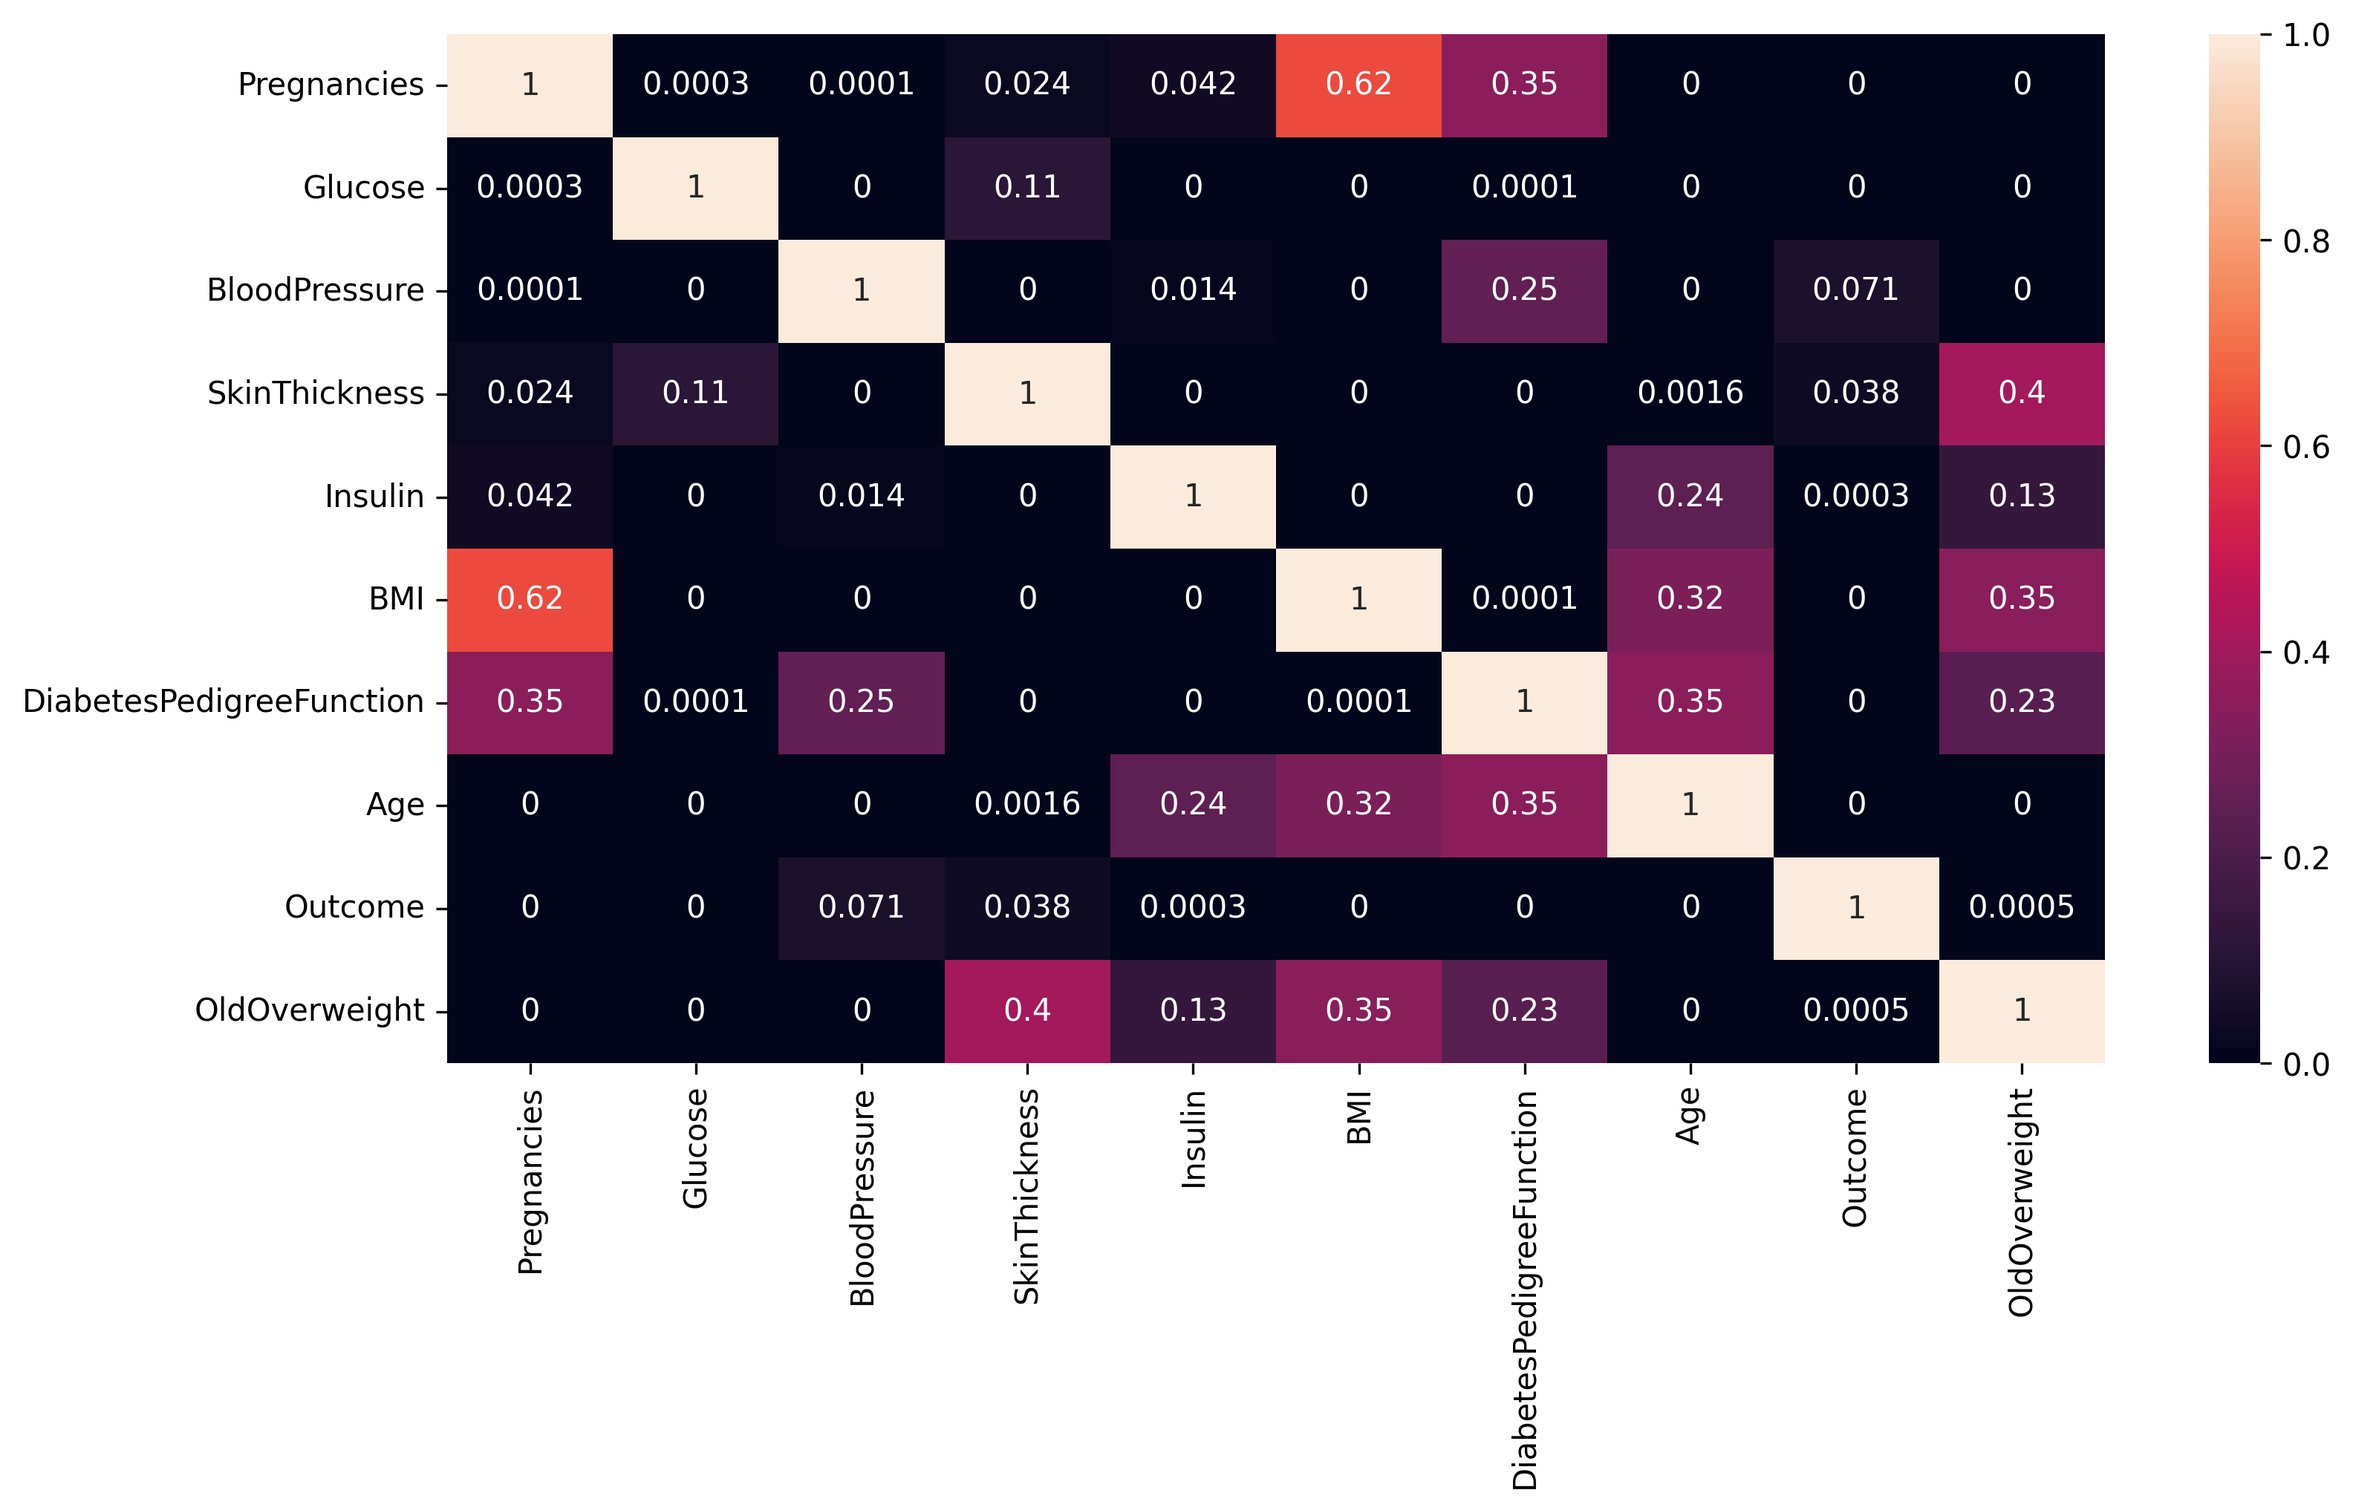
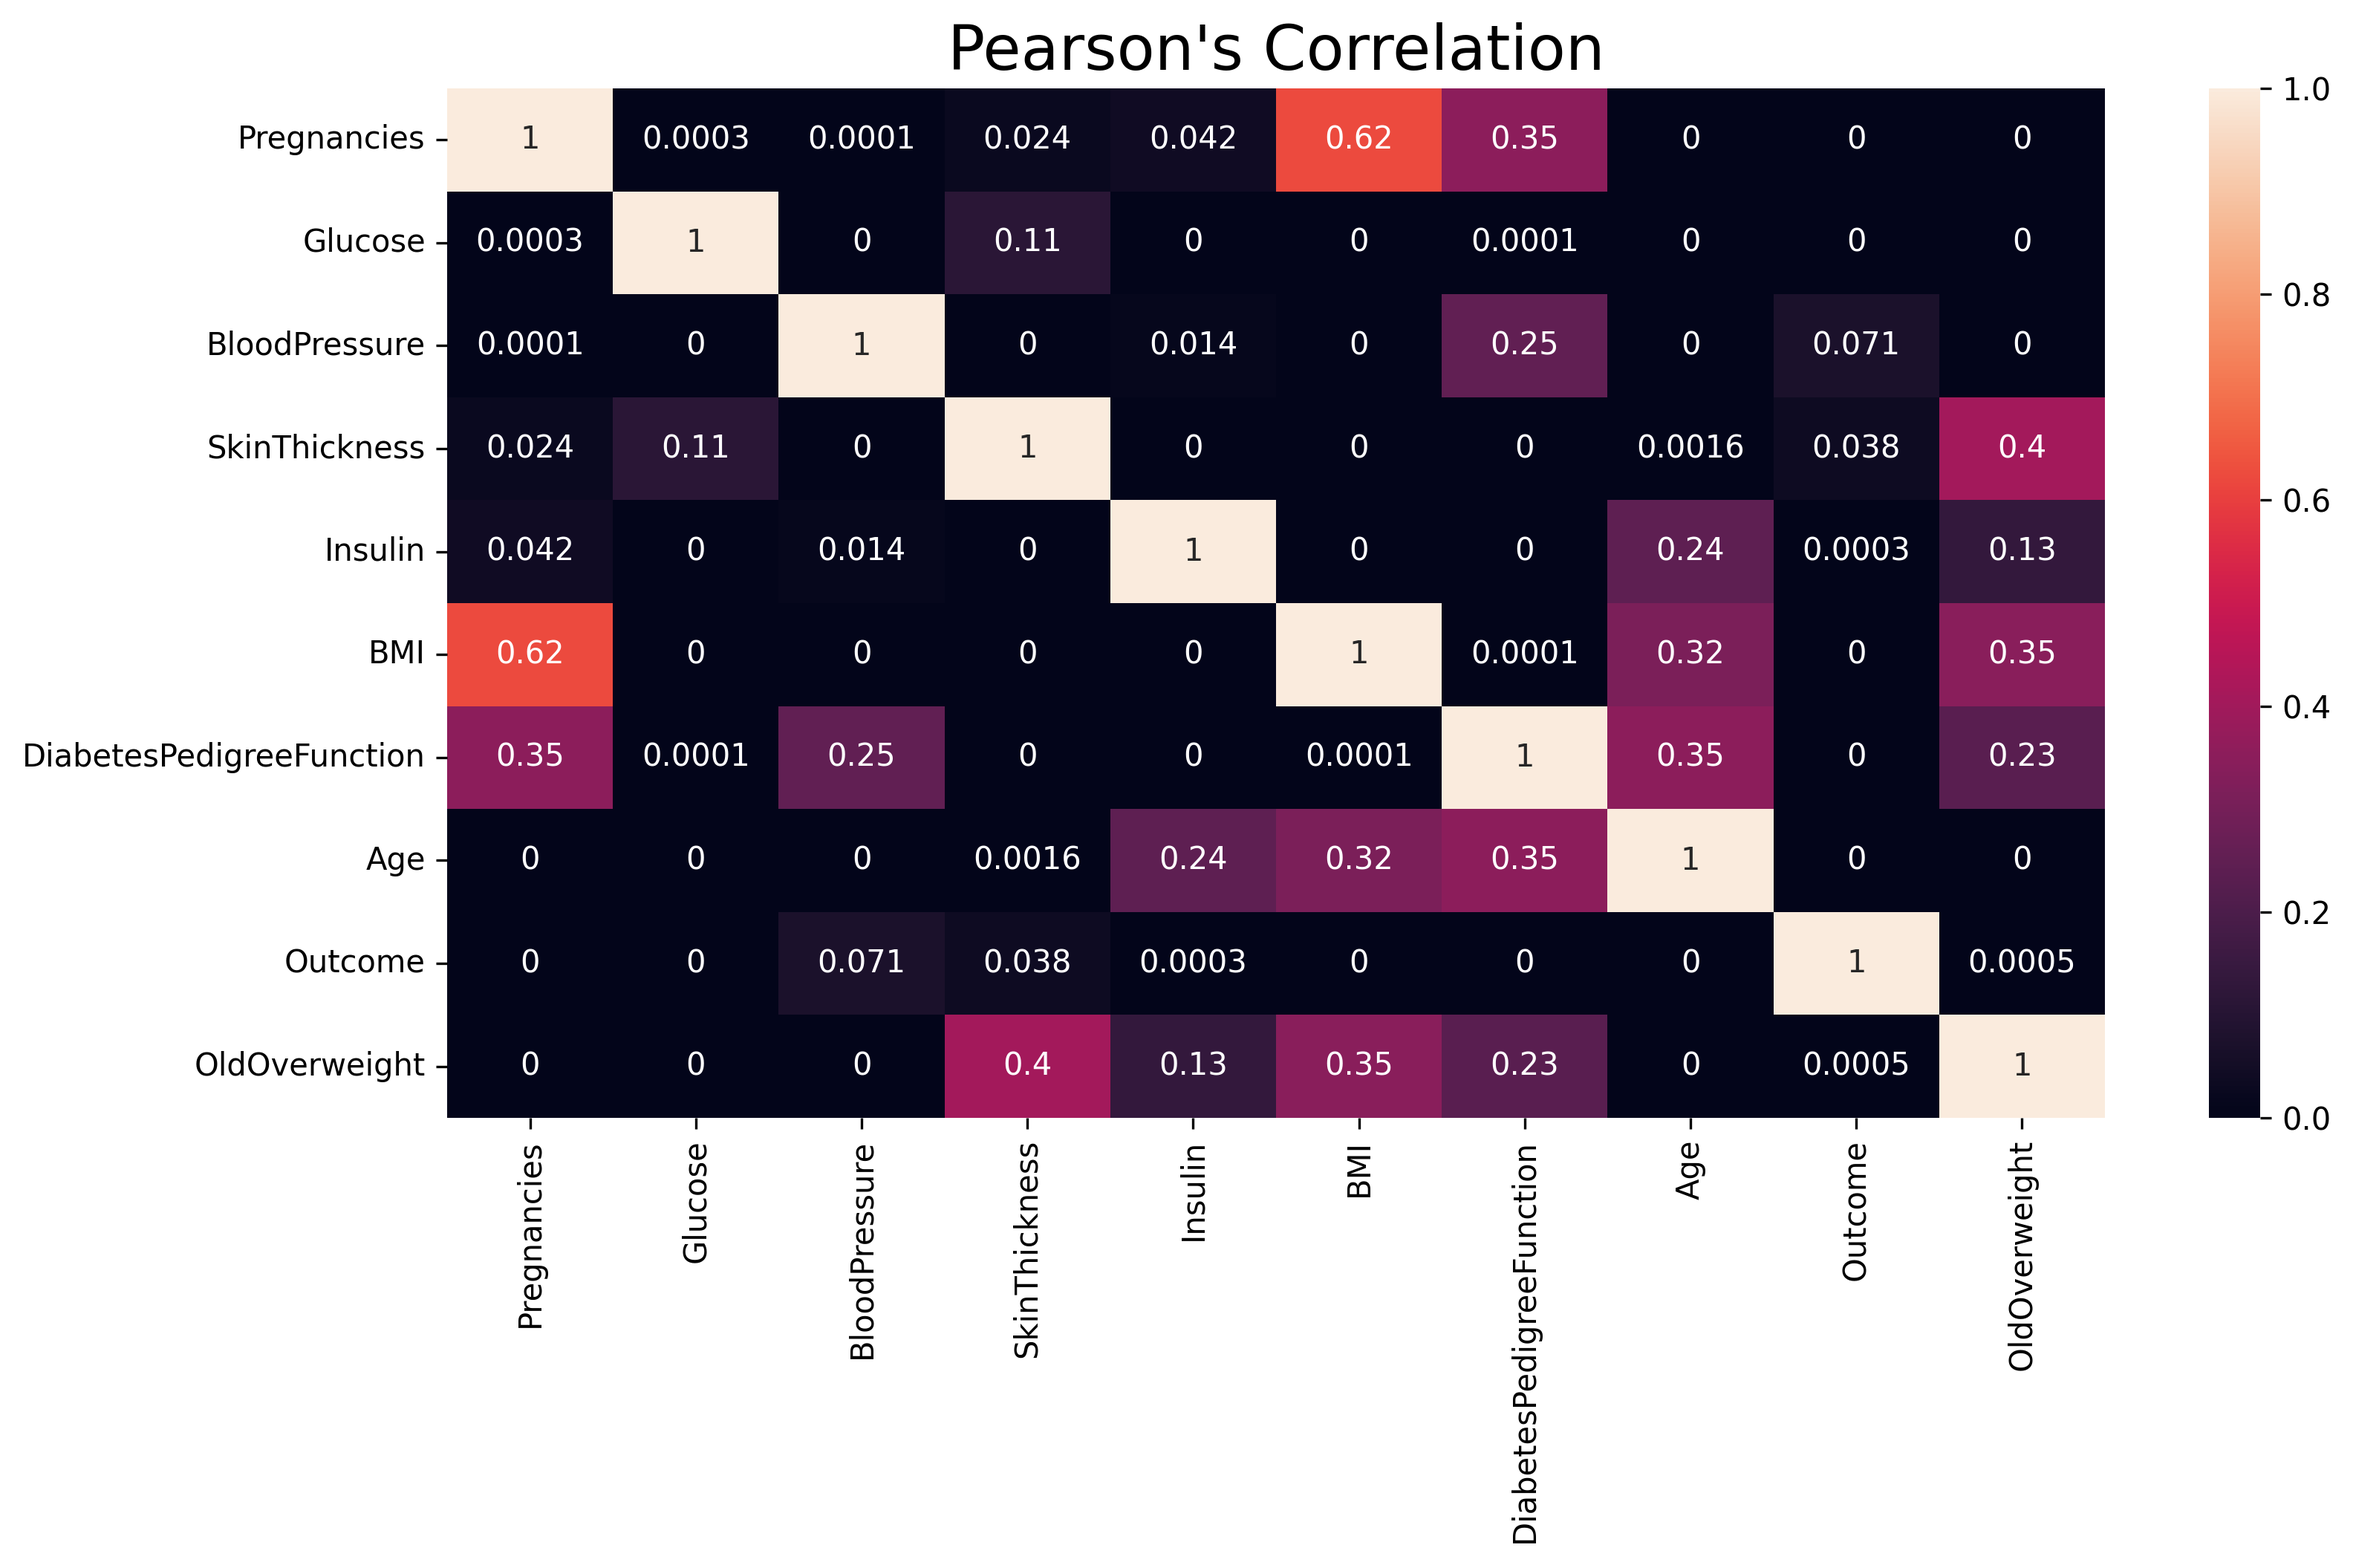
Coded the bold text model

diff --git a/src/main.py b/src/main.py
@@ -1,4 +1,7 @@
+from math import sin
+import cv2
 import utils
+import model
 import pandas as pd
 import significance
 
@@ -10,9 +13,37 @@ def distribution_test(df):
         curr_values = df.loc[:, col]
         significance.gaussian_test(col, curr_values)
 
+
 def correlation_test(df):
     pearson, spearman = significance.correlation_test(df)
 
-    utils.save_correlation_map(pearson, 'heatmap_pearson.png', title="Pearson's Correlation")
-    utils.save_correlation_map(spearman, 'heatmap_spearman.png', title="Spearman's Correlation")
+    utils.save_correlation_map(pearson, 'article/images/heatmap_pearson.png', title="Pearson's Correlation")
+    utils.save_correlation_map(spearman, 'article/images/heatmap_spearman.png', title="Spearman's Correlation")
 
+
+def pregnancy_prediction(df):
+    x_features = ['Glucose', 'BloodPressure', 'SkinThickness', 'Insulin', 'BMI', 'DiabetesPedigreeFunction', 'Age', 'Outcome', 'OldOverweight']
+    y_feature = 'Pregnancies'
+    
+    model.linear_regression_model(df, x_features, y_feature)
+
+    x_features = ['Age', 'Outcome', 'OldOverweight']
+    model.linear_regression_model(df, x_features, y_feature)
+
+
+def bold_text():
+    img1 = cv2.imread('data/logo.png')
+    img2 = cv2.imread('data/heading.png')
+    img3 = cv2.imread('data/body.png')
+
+    bold1 = model.compute_thickness(img1)
+    bold2 = model.compute_thickness(img2)
+    bold3 = model.compute_thickness(img3)
+
+    print(bold1, bold2, bold3)
+
+    significance.boldness_test(bold1, bold2, bold3)
+    
+
+if __name__ == '__main__':
+    bold_text()

diff --git a/src/model.py b/src/model.py
@@ -1,0 +1,39 @@
+import cv2
+import numpy as np
+from sklearn.metrics import r2_score
+from sklearn.model_selection import train_test_split
+from sklearn.linear_model import LinearRegression, LogisticRegression
+
+def data_split(df, x_features, y_feature):
+    X_train = df.loc[:, x_features]
+    y_train = df.loc[:, y_feature]
+
+    return train_test_split(X_train, y_train, test_size=0.2, random_state=42)
+
+def linear_regression_model(df, x_features, y_feature):
+    X_train, X_test, y_train, y_test = data_split(df, x_features, y_feature)
+
+    model = LinearRegression()
+    model.fit(X_train, y_train)
+    pred = model.predict(X_test)
+    r2 = r2_score(y_test, pred)
+
+    print(f'Linear Regression R^2: {r2}')
+
+
+def logistic_regression_model(df, x_features, y_feature):
+    X_train, X_test, y_train, y_test = data_split(df, x_features, y_feature)
+
+    model = LinearRegression()
+    model.fit(X_train, y_train)
+    accuracy = model.score(X_test, y_test)
+
+    print(f'Logistic Regression Accuracy: {accuracy}')
+
+
+def compute_thickness(img):
+    img = cv2.cvtColor(img, cv2.COLOR_BGR2GRAY)
+    inverted = cv2.bitwise_not(img)
+    thinned = cv2.ximgproc.thinning(img)
+
+    return (np.sum(inverted == 255) - np.sum(thinned == 255)) / np.sum(thinned == 255)

diff --git a/src/significance.py b/src/significance.py
@@ -1,6 +1,6 @@
 import numpy as np
-import pandas as pd
 from scipy import stats
+from scipy.stats import levene, f_oneway
 
 def gaussian_test(col, values):
     stat1, p1 = stats.shapiro(values)
@@ -17,3 +17,16 @@ def correlation_test(df):
     spearman = spearman.round(4)
 
     return pearson, spearman
+
+def boldness_test(bold1, bold2, bold3):
+    rng = np.random.RandomState(42)
+    a_ton_of_text_boldness = rng.uniform(low=0.7, high=2.5, size=200)
+
+    variance_check = [[bold1, bold2], [bold2, bold3]]
+
+    for check in variance_check:
+        stat1, p1 = levene(a_ton_of_text_boldness, check, center='mean')
+        stat2, p2 = f_oneway(a_ton_of_text_boldness, check)
+
+        print(f'{p1:5f}')
+        print(f'{p2:5f}')

diff --git a/src/utils.py b/src/utils.py
@@ -3,6 +3,7 @@ import matplotlib.pyplot as plt
 
 def save_correlation_map(correlation_map, save_name, title):
     plt.figure(figsize=(12, 6))
-    ax = sns.heatmap(correlation_map, annot=True)
-    plt.title(title, fontsize=18)
+    sns.heatmap(correlation_map, annot=True)
+    plt.title(title, fontsize=20)
     plt.savefig(save_name, dpi=300, bbox_inches='tight')
+

diff --git a/article/article.md b/article/article.md
@@ -68,7 +68,7 @@ Gaussian: SkinThickness
 This means all the data pass the requirements of being normally distributed since no feature had a p-value above the significance level at 0.05. Furthermore, this means we can use *parametric tests* like T tests and Pearson's Correlation Coefficient. This does not mean we cannot use non-parametric tests - these tests are distribution-free. See [this page](https://www.ibm.com/docs/en/db2woc?topic=procedures-statistics-parametric-nonparametric) for more information about parametric and non-parametric tests.
 
 ### Checking for redundancy
-The amount of signal power in your dataset can sometimes be hard to comprehend. You can check which features are redundant by applying correlation tests. 
+The amount of correlation in your dataset can sometimes be hard to comprehend. You can check which features are redundant by applying correlation tests.
 
 **Pearson's test**: We are testing whether two features have a linear relationship - meaning that if feature X increases or decreases by a value Z, then Y increases or decreases just as much as X. 
 
@@ -90,30 +90,49 @@ def correlation_test(df):
 After we have calculated the correlations, we are left with a correlation map for each test. We use the Seaborn Python package to visualize them as a heatmap:
 
 ```python
-def save_correlation_map(correlation_map, save_name):
+def save_correlation_map(correlation_map, save_name, title):
     plt.figure(figsize=(12, 6))
     sns.heatmap(correlation_map, annot=True)
+    plt.title(title, fontsize=20)
     plt.savefig(save_name, dpi=300, bbox_inches='tight')
 ```
 
-As a result we get two heatmaps, one for Pearson's test and one for Spearman's test:
+As a result we get two heatmaps, one for Pearson's test and one for Spearman's test.
+
+Inspecting the Pearson's correlation plot of p-values, we can quite clearly see tath BMI is correlating with Pregnanies and DiabetesPedigreeFunction. Basically, we are looking for anything above 0.05; any feature that has a p-value for correlation with another feature above 0.05 is found to be insignificantly different from the other feature.
 
 ![](images/heatmap_pearson.png)
+Pearson's correlation coefficient on the diabetes dataset.
+
+Inspecting Spearman's correlation, much of the same story is told, except for a few new features that are tremendously correlated with other features. Insulin and the constructed feature OldOverweight has an incredibly high p-value while the BMI and Pregnancies features increased to a p-value of 1. BloodPressure and Insulin also has a very large p-value.
 
 ![](images/heatmap_spearman.png)
+Spearman's correlation coefficient on the diabetes dataset.
 
-#### Linear Regression Example
-Comparing coefficients
+On a final note on correlation; making intuitive sense of a dataset is not always as easy as with our dataset for this article. We can quite clearly see that BMI and Pregnancies follow eachother linearly and monotonically - as expected. However, if you are working with sensor data where you cannot put your intuition on top quickly, then this becomes a tool to help you understand the sensor data faster.
 
 ### Finding a cutoff point
 Perhaps this is what I have found most useful in my work. It is almost like a statistical way of finding outliers that does not require you to train a model. Using clustering algorithms can also help, but they add additional complexity which we do not need.
 
 Levene's test vs ANOVA
 
-ANOVA F statistic equation:
+![](images/bold_text_test.png)
 
-$$
-{\displaystyle W={\frac {(N-k)}{(k-1)}}\cdot {\frac {\sum _{i=1}^{k}N_{i}(Z_{i\cdot }-Z_{\cdot \cdot })^{2}}{\sum _{i=1}^{k}\sum _{j=1}^{N_{i}}(Z_{ij}-Z_{i\cdot })^{2}}},}
-$$
+```python
+def bold_text():
+    img1 = cv2.imread('data/logo.png')
+    img2 = cv2.imread('data/heading.png')
+    img3 = cv2.imread('data/body.png')
 
-Equation is not too complicated..
+    bold1 = model.compute_thickness(img1)
+    bold2 = model.compute_thickness(img2)
+    bold3 = model.compute_thickness(img3)
+
+    rng = np.random.RandomState(42)
+    a_ton_of_text_boldness = rng.uniform(low=0.7, high=2.5, size=200)
+    np.append(a_ton_of_text_boldness, [bold1, bold2])
+
+    stat, p = levene(a_ton_of_text_boldness, [bold1, bold2], center='mean')
+    print(bold1, bold2, bold3)
+    print(f'{p:5f}')
+```
